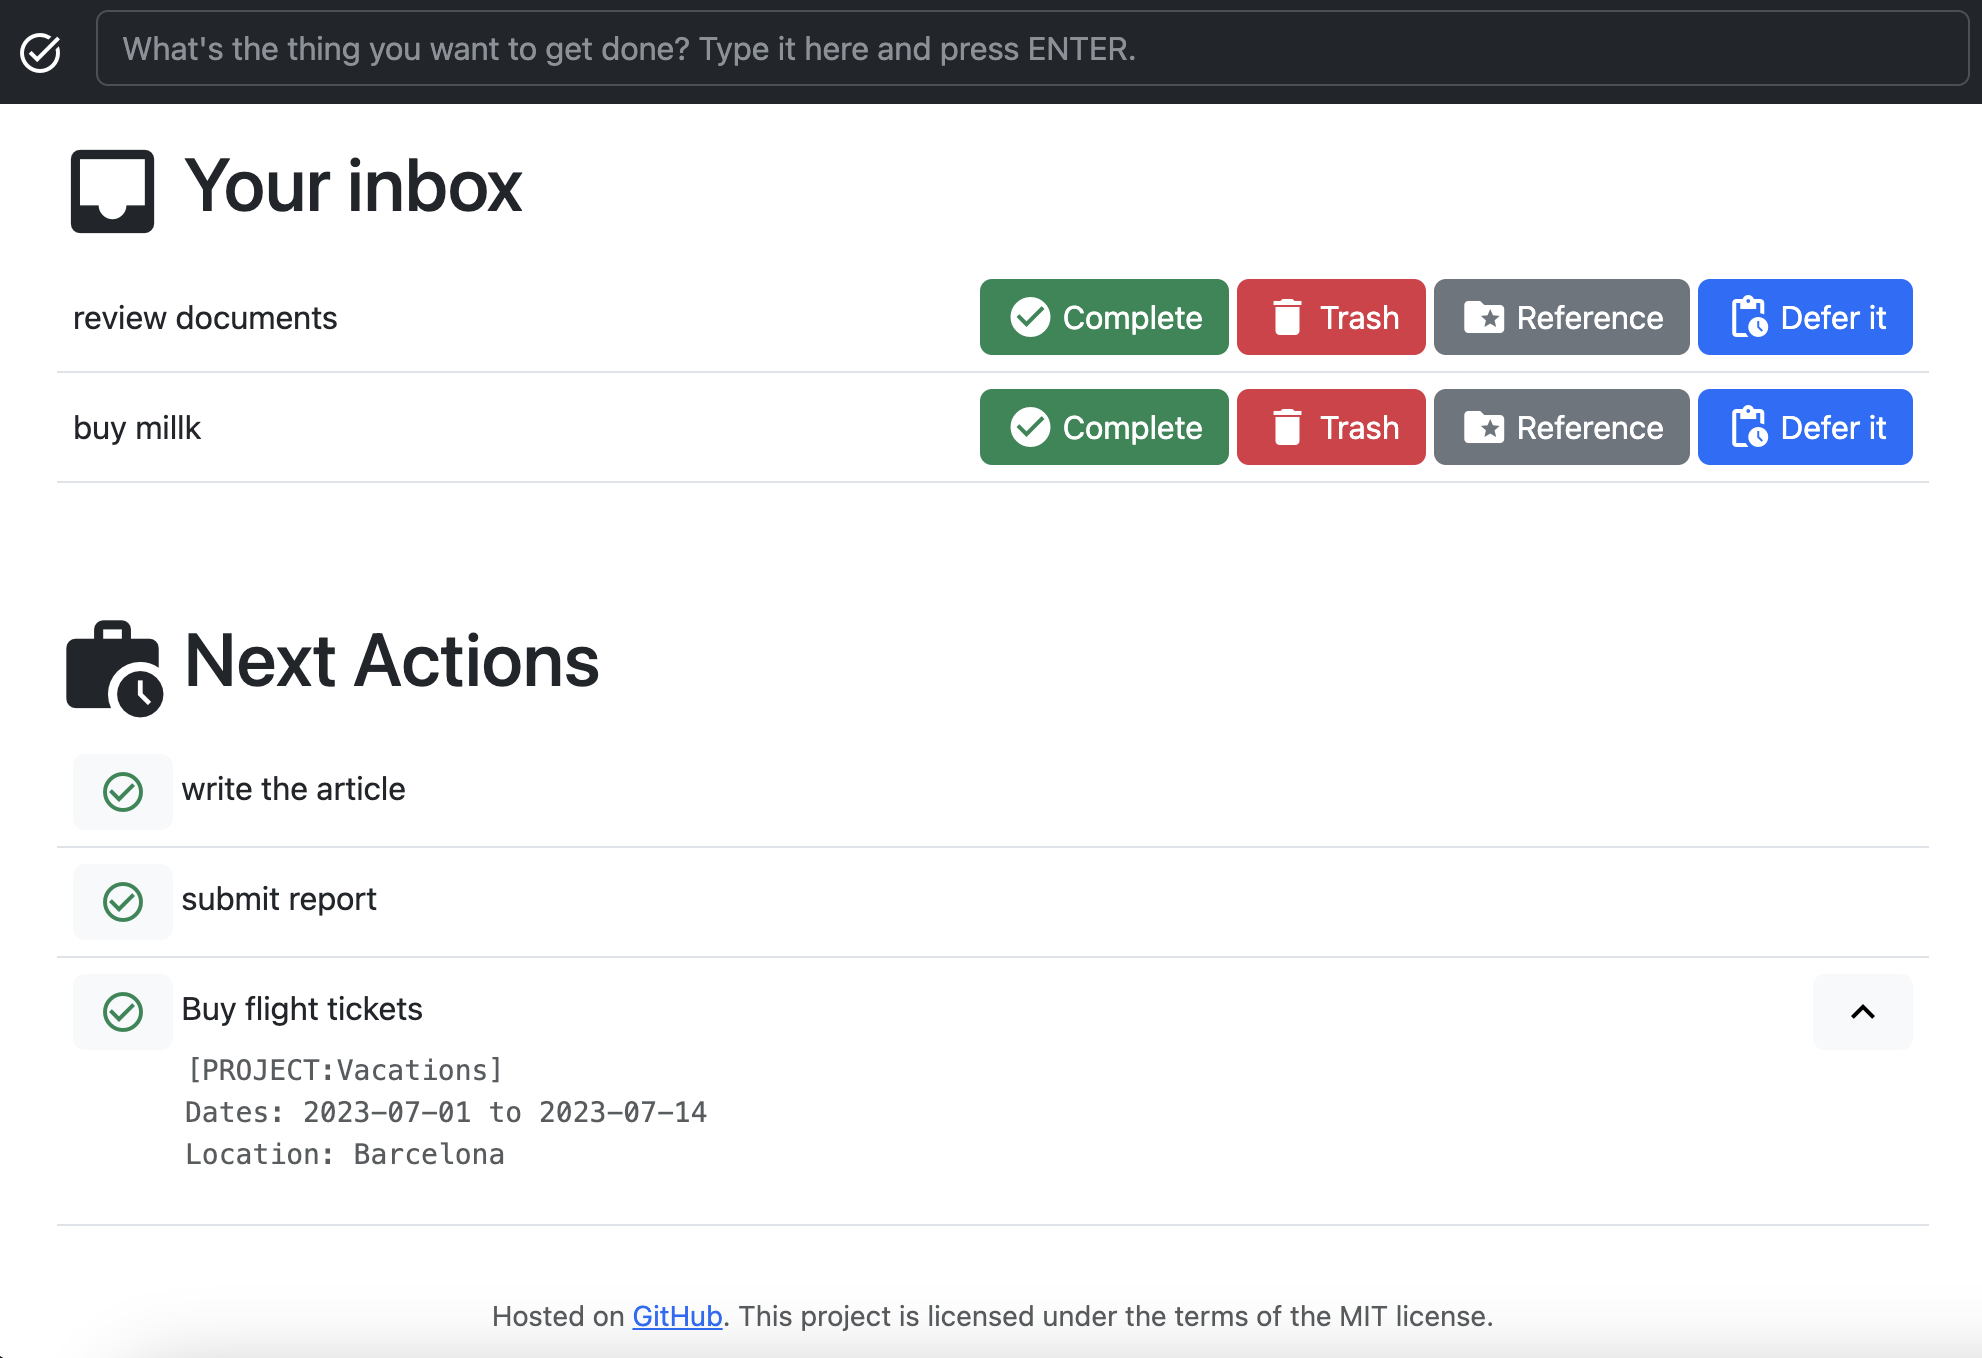
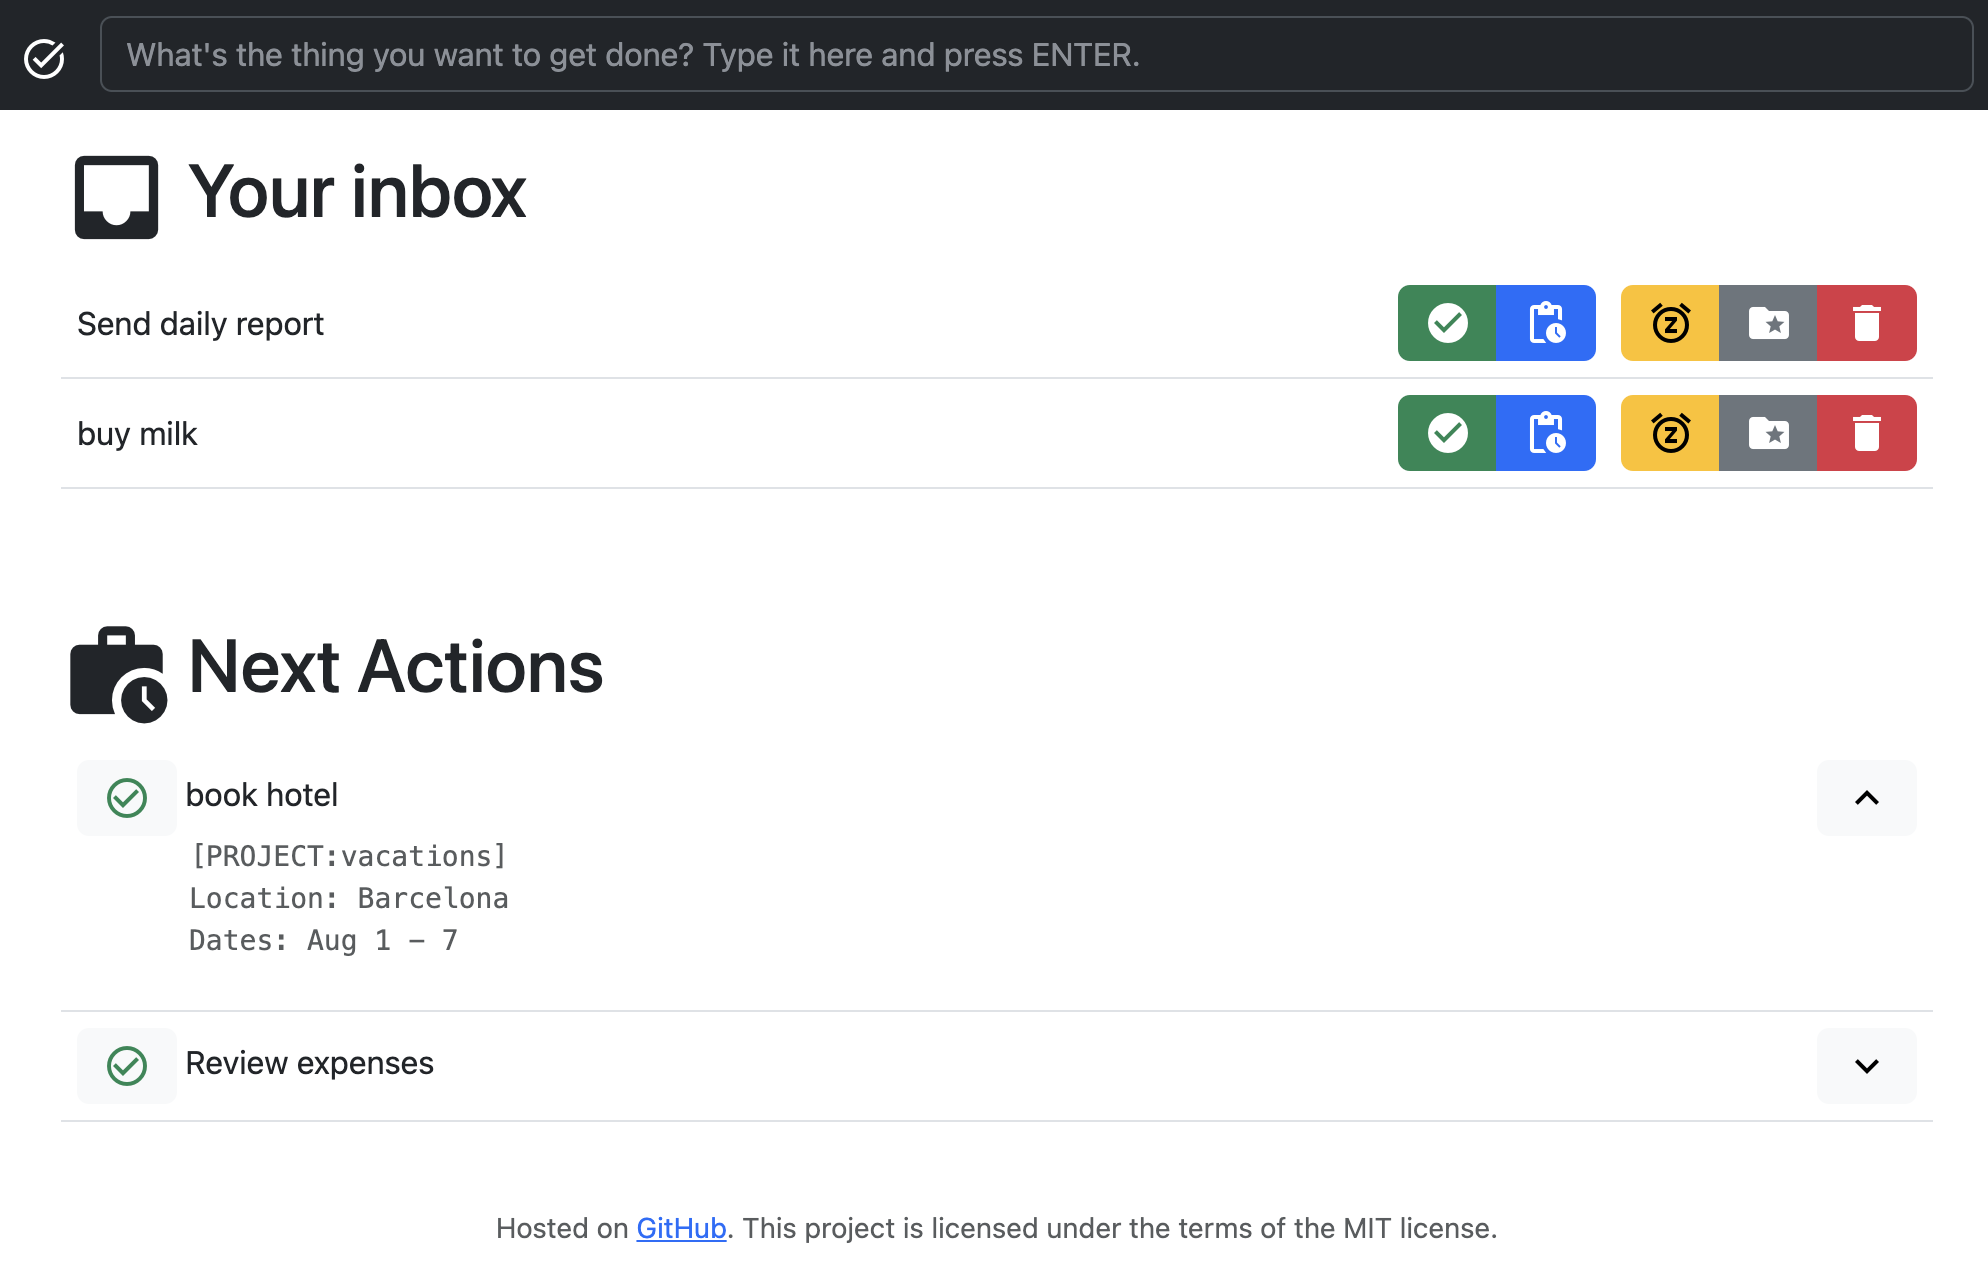
feat: snooze tasks

diff --git a/src/frontend/InboxItem.jsx b/src/frontend/InboxItem.jsx
@@ -1,6 +1,8 @@
 import PropTypes from 'prop-types';
 import DeferForm from './DeferForm.jsx';
 import ReferenceForm from './ReferenceForm.jsx';
+import SnoozeForm from './SnoozeForm.jsx';
+import { Tooltip } from './Tooltip.jsx';
 
 function InboxItem (props) {
 
@@ -13,6 +15,7 @@ function InboxItem (props) {
     onRequestTrash,
     onRequestDefer,
     onRequestReference,
+    onRequestSnooze,
     locked
   } = props
 
@@ -29,24 +32,43 @@ function InboxItem (props) {
   }
   const colCount = 2
 
+  const actionableButtons = <div className="btn-group">
+        <Tooltip text="Complete">
+          <button type="button" className="btn btn-success" onClick={() => onRequestComplete()} disabled={locked} >
+            <span className="material-icons" style={{verticalAlign: 'top'}}>check_circle</span>
+          </button>
+        </Tooltip>
+        <Tooltip text="Defer it!">
+          <button type="button" className="btn btn-primary" onClick={() => toggle('defer')} disabled={locked} >
+            <span className="material-icons" style={{verticalAlign: 'top'}}>pending_actions</span>
+          </button>
+        </Tooltip>
+      </div>
+
+  const nonActionableButtons = <div className="btn-group">
+      <Tooltip text="Snooze">
+        <button type="button" className="btn btn-warning" onClick={() => toggle('snooze')} disabled={locked} >
+          <span className="material-icons" style={{verticalAlign: 'top'}}>snooze</span>
+        </button> 
+      </Tooltip>
+      <Tooltip text="Reference">
+        <button type="button" className="btn btn-secondary" onClick={() => toggle('reference')} disabled={locked} >
+          <span className="material-icons" style={{verticalAlign: 'top'}}>folder_special</span>
+        </button>
+      </Tooltip>
+      <Tooltip text="Trash">
+        <button type="button" className="btn btn-danger" onClick={() => onRequestTrash()} disabled={locked} >
+          <span className="material-icons" style={{verticalAlign: 'top'}}>delete</span>
+        </button> 
+      </Tooltip>
+    </div>
+
   const output = [<tr key="main-row">
       <td style={{verticalAlign: 'middle'}}>{title}</td>
       <td style={{textAlign: 'right'}}>
-        <button type="button" className="btn btn-success" onClick={() => onRequestComplete()} disabled={locked} title="takes less than 2min">
-          <span className="material-icons" style={{verticalAlign: 'top'}}>check_circle</span> Complete
-        </button>
-        &nbsp;
-        <button type="button" className="btn btn-danger" onClick={() => onRequestTrash()} disabled={locked} title="nothing to do">
-          <span className="material-icons" style={{verticalAlign: 'top'}}>delete</span> Trash
-        </button> 
-        &nbsp;
-        <button type="button" className="btn btn-secondary" onClick={() => toggle('reference')} disabled={locked} title="retrievable when requried">
-          <span className="material-icons" style={{verticalAlign: 'top'}}>folder_special</span> Reference
-        </button>
-        &nbsp;
-        <button type="button" className="btn btn-primary" onClick={() => toggle('defer')} disabled={locked} title="to do as soon as I can">
-          <span className="material-icons" style={{verticalAlign: 'top'}}>pending_actions</span> Defer it
-        </button>
+        {actionableButtons}
+        &nbsp; &nbsp;
+        {nonActionableButtons}
       </td>
     </tr>]
 
@@ -74,6 +96,17 @@ function InboxItem (props) {
         </td>
       </tr>)
     }
+    if(!locked && state === 'snooze') {
+      output.push(<tr key="snooze-row">
+        <td colSpan={colCount}>
+          <SnoozeForm 
+            title={title} 
+            notes={notes} 
+            onSubmit={(name, notes, duration) => onRequestSnooze(name, notes, duration)}
+          />
+        </td>
+      </tr>)
+    }
 
     return output
 }
@@ -91,6 +124,7 @@ InboxItem.propTypes = {
   onRequestTrash: PropTypes.func,
   onRequestDefer: PropTypes.func,
   onRequestReference: PropTypes.func,
+  onRequestSnooze: PropTypes.func,
 }
 
 InboxItem.defaultProps = {
@@ -103,6 +137,8 @@ InboxItem.defaultProps = {
   onRequestTrash: () => {},
   onRequestDefer: () => {},
   onRequestReference: () => {},
+  onRequestSnooze: () => {},
+  
 }
 
 export default InboxItem

diff --git a/src/frontend/SnoozeForm.jsx b/src/frontend/SnoozeForm.jsx
@@ -1,0 +1,62 @@
+import PropTypes from 'prop-types';
+
+function SnoozeForm(props) {
+
+  const {
+    id,
+    title,
+    notes,
+    onSubmit
+  } = props
+
+  const [newTitle, setNewTitle] = React.useState(title);
+  const [duration, setDuration] = React.useState(24*60*60*1000);
+  const [newNotes, setNewNotes] = React.useState(notes.replace(/\[PROJECT:.*]\n/g, ''));
+
+  return <div className="card">
+    <div className="card-header">
+      <strong>Snooze</strong>
+    </div>
+    <div className="card-body">
+      <div className="mb-3">
+        <label forhtml={`titleInput_${id}`} className="form-label"><span className="material-icons" style={{verticalAlign: 'top'}}>label</span> Task Title</label>
+        <input type="text" className="form-control" id={`titleInput_${id}`} value={newTitle} onChange={(e) => setNewTitle(e.target.value)}/>
+      </div>
+      <div className="mb-3">
+        <label forhtml={`durationInput_${id}`} className="form-label"><span className="material-icons" style={{verticalAlign: 'top'}}>snooze</span> Duration</label>
+        <select id={`durationInput_${id}`} className="form-select form-control" value={duration} onChange={(e) => setDuration(Number(e.target.value))}>
+          <option value={24*60*60*1000}>a day</option>
+          <option value={3*24*60*60*1000}>three days</option>
+          <option value={7*24*60*60*1000}>a week</option>
+          <option value={2*7*24*60*60*1000}>two weeks</option>
+          <option value={30*24*60*60*1000}>a month</option>
+          <option value={2*30*24*60*60*1000}>two months</option>
+          <option value={3*30*24*60*60*1000}>three months</option>
+        </select>
+      </div>
+      <div className="mb-3">
+        <label forhtml={`notesInput_${id}`} className="form-label"><span className="material-icons" style={{verticalAlign: 'top'}}>description</span> Notes / Description</label>
+        <textarea type="text" className="form-control" id={`notesInput_${id}`} rows={5} onChange={(e) => setNewNotes(e.target.value)} value={newNotes} />
+      </div>
+      <div className="mb-3" style={{textAlign: 'right'}}>
+        <button type="submit" className="btn btn-primary mb-3" onClick={() => onSubmit(newTitle, newNotes, duration)}>Snooze</button>
+      </div>
+    </div>
+  </div>
+}
+
+SnoozeForm.propTypes = {
+  id: PropTypes.string,
+  title: PropTypes.string,
+  notes: PropTypes.string,
+  onSubmit: PropTypes.func
+}
+
+SnoozeForm.defaultProps = {
+  id: Math.round(Math.random()*0xffffffff).toString(16),
+  title: "Unknown Task",
+  notes: "",
+  onSubmit: () => {}
+}
+
+export default SnoozeForm

diff --git a/src/backend/Inbox.js b/src/backend/Inbox.js
@@ -2,7 +2,11 @@ export default class Inbox {
 
   getItems() {
     const inboxId = PropertiesService.getScriptProperties().getProperty('TASK_LIST_INBOX')
-    return Tasks.Tasks.list(inboxId).items.filter(t => t.status === "needsAction")
+    const now = new Date().getTime()
+    return Tasks.Tasks.list(inboxId).items
+      .filter(t => t.status === "needsAction")
+      .filter(i => !i.due || new Date(i.due).getTime() <= now)
+
   }
 
   completeTask(taskId) {
@@ -13,6 +17,16 @@ export default class Inbox {
   trashTask(taskId) {
     const inboxId = PropertiesService.getScriptProperties().getProperty('TASK_LIST_INBOX')
     Tasks.Tasks.remove(inboxId, taskId)
+  }
+
+  snoozeTask(taskId, title, notes, duration) {
+    const inboxId = PropertiesService.getScriptProperties().getProperty('TASK_LIST_INBOX')
+
+    const now = new Date().getTime()
+    const today = Math.floor(now/(24*60*60*1000))*24*60*60*1000
+    const due = new Date(today + duration).toISOString()
+
+    Tasks.Tasks.patch({due, title, notes}, inboxId, taskId)
   }
 
   deferTask(taskId, title, notes, due=undefined, project=undefined) {

diff --git a/src/frontend/InboxList.jsx b/src/frontend/InboxList.jsx
@@ -9,6 +9,7 @@ function InboxList(props) {
     onTrashTask,
     onDeferTask,
     onReferTask,
+    onSnooze,
     references
   } = props
 
@@ -30,6 +31,7 @@ function InboxList(props) {
         onRequestTrash={() => onTrashTask(i.id)}
         onRequestDefer={(title, notes, due, project) => onDeferTask(i.id, title, notes, due, project)}
         onRequestReference={(title, notes, docId) => onReferTask(i.id, title, notes, docId)}
+        onRequestSnooze={(title, notes, duration) => onSnooze(i.id, title, notes, duration)}
       />
     ))
     content = <table className="table"><tbody>{itemElements}</tbody></table>
@@ -62,6 +64,7 @@ InboxList.propTypes = {
   onTrashTask: PropTypes.func,
   onDeferTask: PropTypes.func,
   onReferTask: PropTypes.func,
+  onSnooze: PropTypes.func,
 }
 
 InboxList.defaultProps = {
@@ -71,6 +74,7 @@ InboxList.defaultProps = {
   onTrashTask: () => {},
   onDeferTask: () => {},
   onReferTask: () => {},
+  onSnooze: () => {},
 }
 
 export default InboxList

diff --git a/src/frontend/App.jsx b/src/frontend/App.jsx
@@ -74,6 +74,14 @@ function App() {
       .inbox_trashTask(id)
   }
 
+  const snoozeInboxTask = (id, title, notes, duration) => {
+    disableInboxItem(id)
+    google.script.run
+      .withSuccessHandler(() => removeInboxItem(id))
+      .withFailureHandler(setError)
+      .inbox_snoozeTask(id, title, notes, duration)
+  }
+
   const deferInboxTask = (id, title, notes, due, project) => {
     disableInboxItem(id)
     console.log({id, title, notes, due, project})
@@ -124,6 +132,7 @@ function App() {
       onTrashTask={trashInboxTask}
       onDeferTask={deferInboxTask}
       onReferTask={storeReference}
+      onSnooze={snoozeInboxTask}
     />
     <ActionList 
       items={actionItems}

diff --git a/src/frontend/Tooltip.jsx b/src/frontend/Tooltip.jsx
@@ -1,0 +1,15 @@
+
+export const Tooltip = ({children, text}) => {
+    const childRef = React.useRef()
+
+    React.useEffect(() => {
+        const t = new bootstrap.Tooltip(childRef.current, {
+            title: text,
+            placement: "top",
+            trigger: "hover"
+        })
+        return () => t.dispose()
+    }, [text])
+
+    return React.cloneElement(children, { ref: childRef })
+}

diff --git a/src/backend/globals.js b/src/backend/globals.js
@@ -18,6 +18,10 @@ function inbox_trashTask(id) {
   backendApp.inbox.trashTask(id)
 }
 
+function inbox_snoozeTask(id, title, notes, duration) {
+  backendApp.inbox.snoozeTask(id, title, notes, duration)
+}
+
 function inbox_deferTask(id, title, notes, due, project) {
   return backendApp.inbox.deferTask(id, title, notes, due, project)
 }
